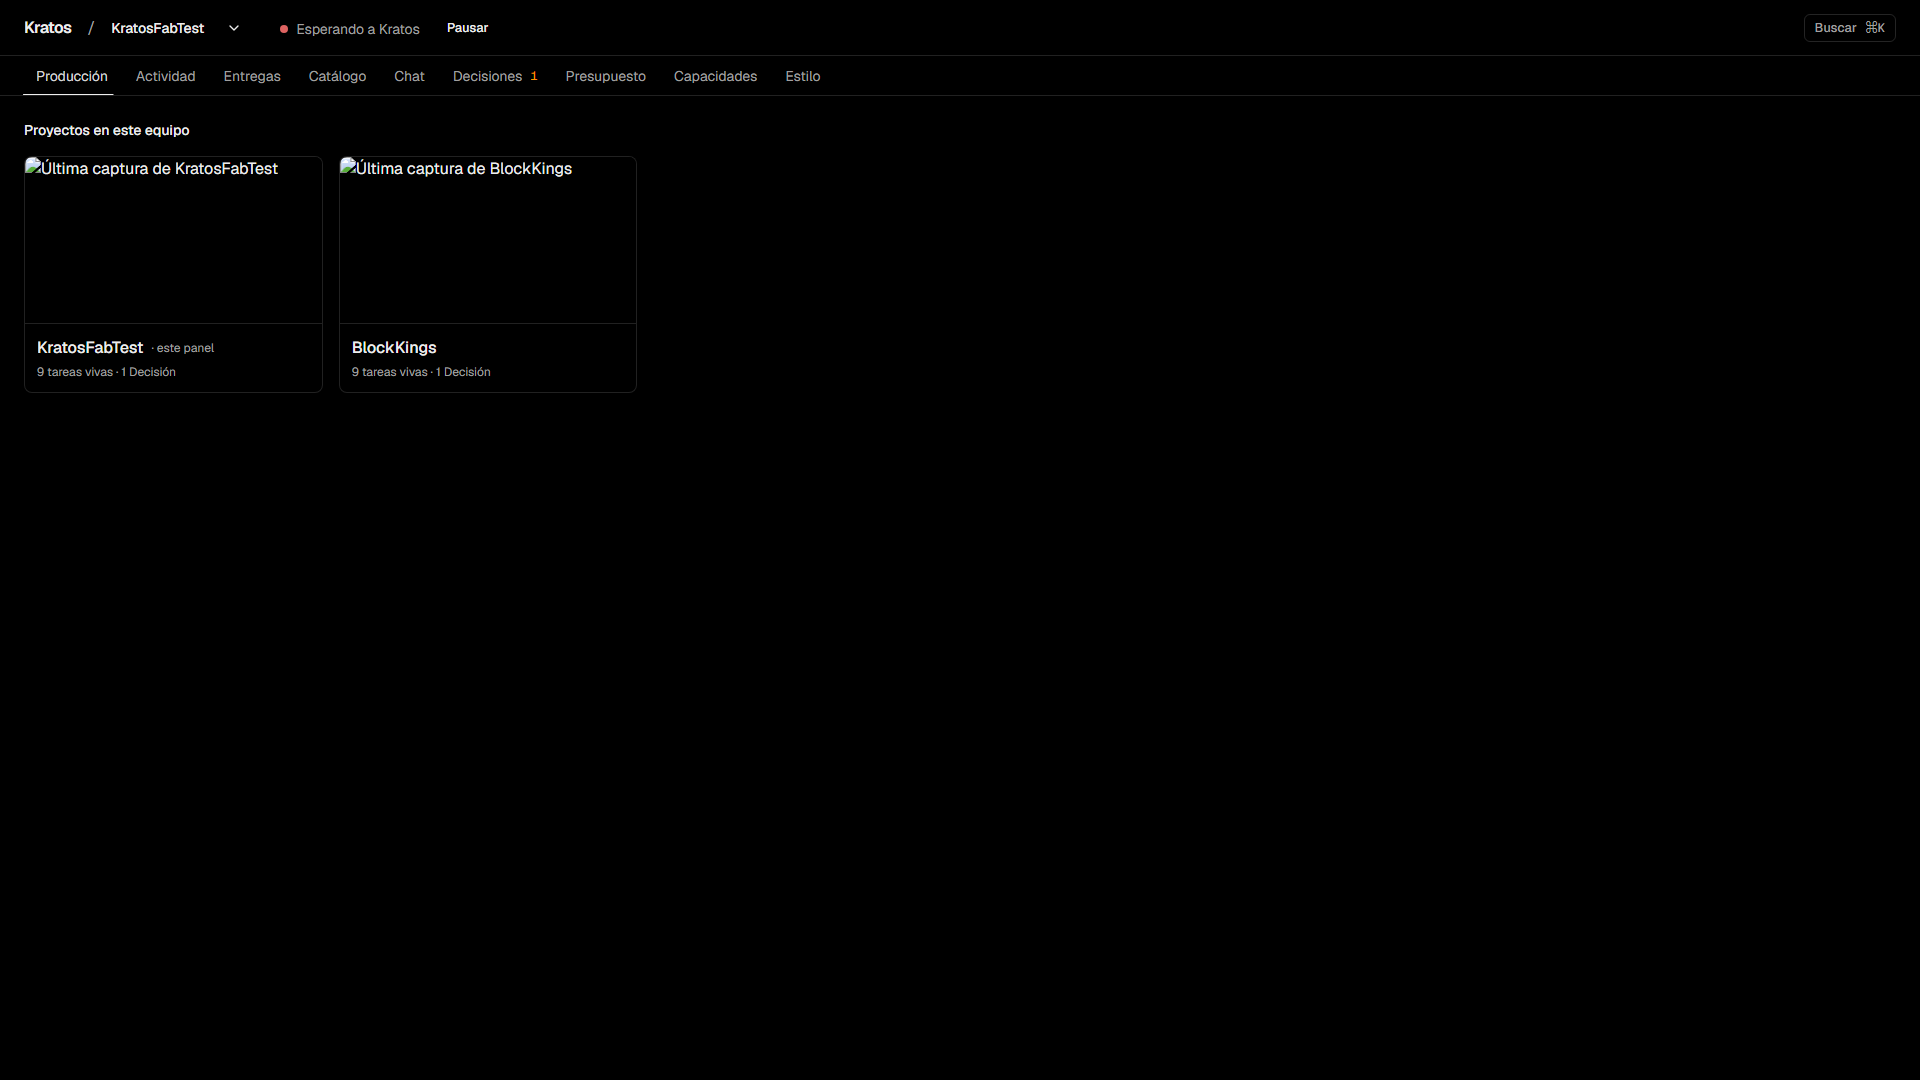
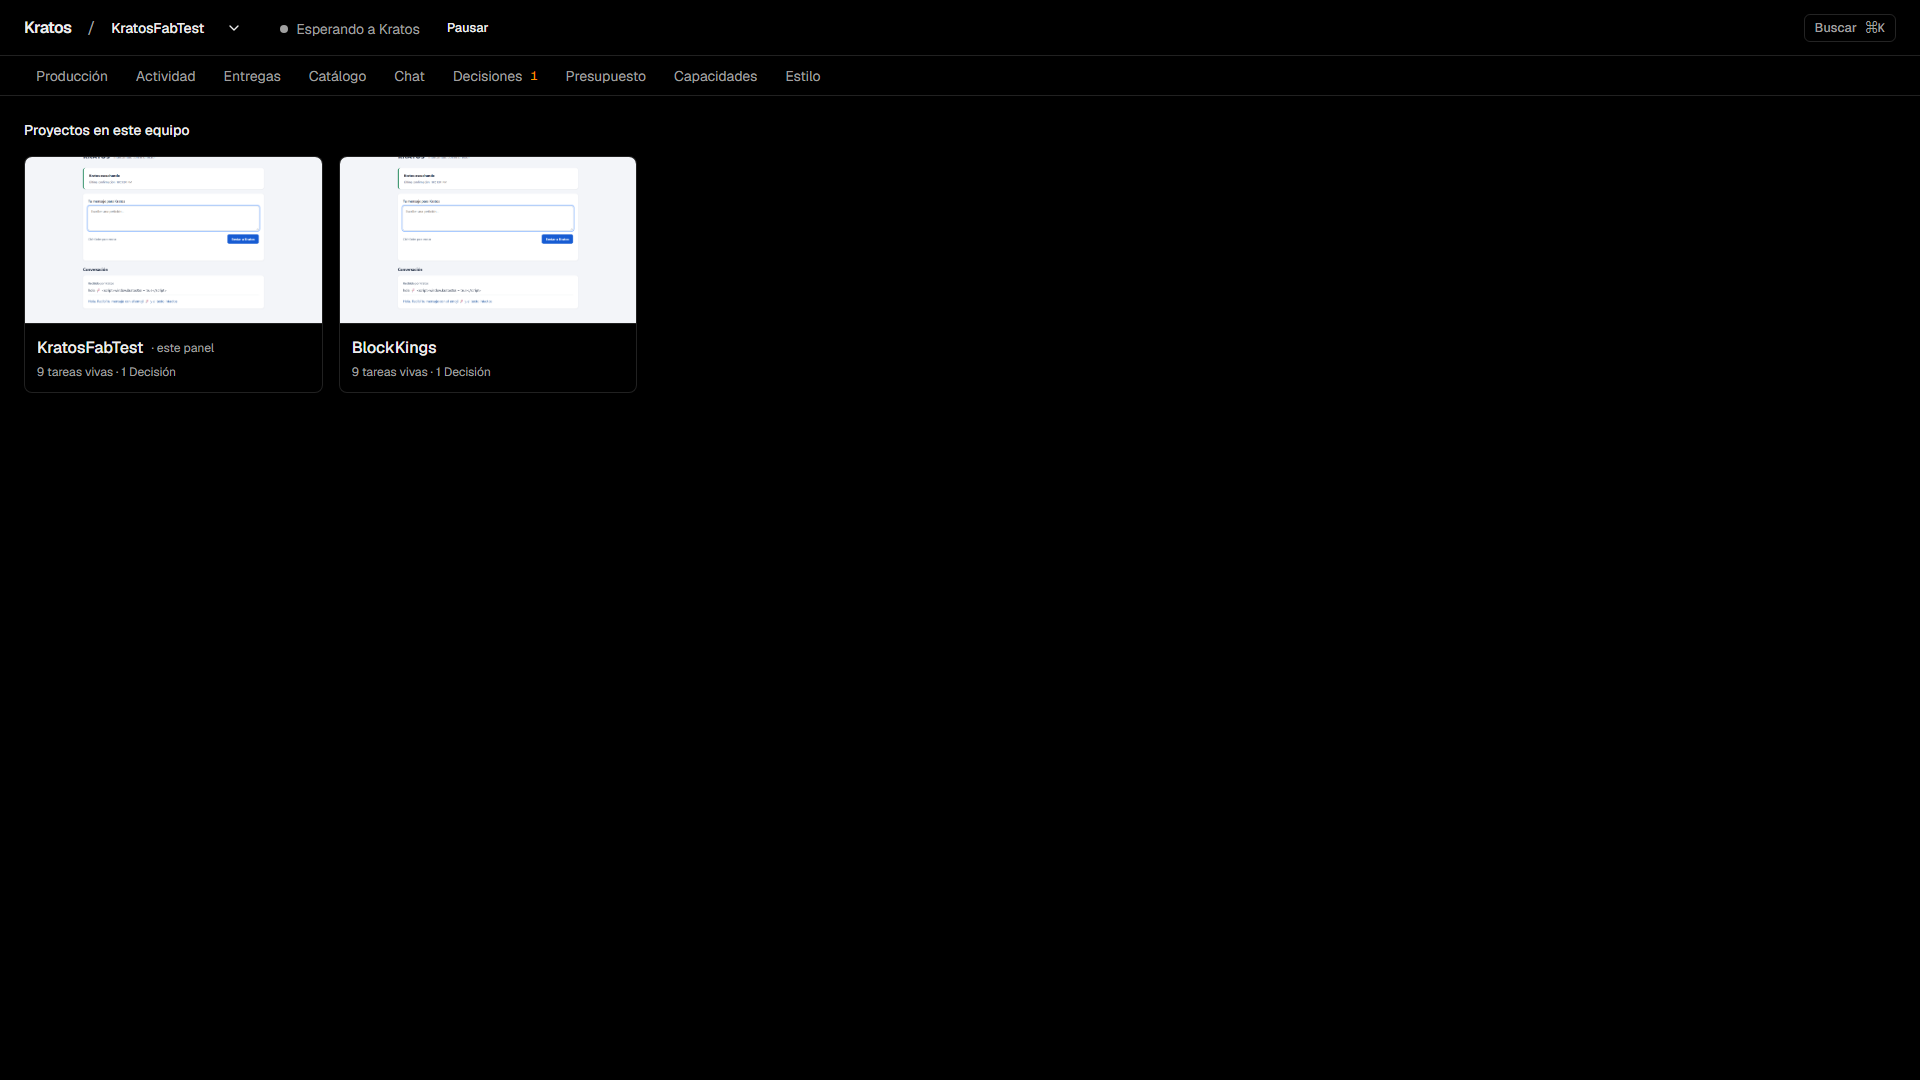
fix: miniaturas reales en la portada de proyectos y subrayado de pestaña en su sitio
- El service worker añade el token a /projects/:puerto/capture: la miniatura daba 401 y salía rota.
- Sin captura o si no carga (onError), marcador neutro con el pictograma del área y el nombre del proyecto.
- El subrayado de la pestaña activa se recoloca con ResizeObserver (el contador de Decisiones y la fuente
  llegan después) y desaparece cuando ninguna pestaña está activa (portada).
- e2e: miniatura cargada de verdad antes de capturar; subrayado bajo Chat a 1024/1366/1920 y ausente en la portada.
- Capturas regeneradas: portada-proyectos, selector-proyectos y las del chat.

Changed region(s): [[0.0, 0.1222, 0.3438, 0.3056], [0.0312, 0.0611, 0.0625, 0.0917]]

diff --git a/panel/src/views/Proyectos.test.tsx b/panel/src/views/Proyectos.test.tsx
@@ -1,5 +1,5 @@
 import { afterEach, beforeEach, describe, expect, it, vi } from 'vitest'
-import { cleanup, render, screen, within } from '@testing-library/react'
+import { cleanup, fireEvent, render, screen, within } from '@testing-library/react'
 import { createMemoryRouter, RouterProvider } from 'react-router'
 
 vi.mock('@/api', () => ({ token: 'tok-secreto', api: vi.fn() }))
@@ -12,6 +12,8 @@ const projects = [
   { name: 'KratosFabTest', dir: 'C:/Unreal/KratosFabTest', port: 8780, alive: true, current: true, liveTasks: 0, openDecisions: 0, hasCapture: false },
   { name: 'Viejo', dir: 'C:/Unreal/Viejo', port: 9999, alive: false, current: false },
 ]
+/** La tarjeta de un proyecto (su nombre puede salir también en el marcador sin captura). */
+const card = (name: string) => screen.getAllByText(name)[0].closest('li')!
 const show = () => render(<RouterProvider router={createMemoryRouter([{ path: '/', element: <Proyectos /> }])} />)
 
 beforeEach(() => { resetStore(); vi.mocked(api).mockReset(); vi.mocked(api).mockResolvedValue(projects) })
@@ -20,16 +22,29 @@ afterEach(cleanup)
 describe('Portada de proyectos (hito 10)', () => {
   it('una tarjeta por juego con su última captura, tareas vivas y Decisiones; el otro se abre en su propio servicio', async () => {
     show()
-    const block = (await screen.findByText('BlockKings')).closest('li')!
+    await screen.findAllByText('BlockKings')
+    const block = card('BlockKings')
     expect(within(block).getByText('3 tareas vivas · 1 Decisión')).toBeInTheDocument()
     expect(within(block).getByRole('img', { name: 'Última captura de BlockKings' }).getAttribute('src')).toContain('/projects/51234/capture')
     expect(within(block).getByRole('link')).toHaveAttribute('href', 'http://127.0.0.1:51234/')
-    const current = screen.getByText('KratosFabTest').closest('li')!
+    const current = card('KratosFabTest')
     expect(within(current).getByText(/este panel/)).toBeInTheDocument()
     expect(within(current).getByRole('link')).toHaveAttribute('href', '/')
-    expect(within(screen.getByText('Viejo').closest('li')!).queryByRole('link')).toBeNull()
+    expect(within(card('Viejo')).queryByRole('link')).toBeNull()
     // el token nunca en pantalla ni en los enlaces a otros proyectos (cada panel lo pide a su servicio)
     for (const link of screen.getAllByRole('link')) expect(link.getAttribute('href')).not.toContain('tok')
     expect(document.body.textContent).not.toContain('tok-secreto')
+  })
+
+  it('sin captura o si la imagen falla, un marcador neutro con el nombre del proyecto; nunca una imagen rota', async () => {
+    show()
+    await screen.findAllByText('KratosFabTest')
+    const current = card('KratosFabTest')
+    expect(within(current).queryByRole('img', { name: /Última captura/ })).toBeNull()
+    expect(within(current).getByRole('img', { name: 'KratosFabTest sin captura' })).toBeInTheDocument()
+    const block = card('BlockKings')
+    fireEvent.error(within(block).getByRole('img', { name: 'Última captura de BlockKings' }))
+    expect(within(block).queryByRole('img', { name: 'Última captura de BlockKings' })).toBeNull()
+    expect(within(block).getByRole('img', { name: 'BlockKings sin captura' })).toBeInTheDocument()
   })
 })

diff --git a/panel/src/views/Proyectos.tsx b/panel/src/views/Proyectos.tsx
@@ -1,9 +1,10 @@
+import { useState } from 'react'
 import { Link } from 'react-router'
 import { useAuthedSrc } from '@/hooks/artifact'
 import { useResource } from '@/hooks/useResource'
 import { BRAND } from '@/lib/brand'
 import { humanError } from '@/lib/errors'
-import { Glyph } from '@/visual/Glyph'
+import { AreaPictogram } from '@/visual/art/AreaPictogram'
 
 /** Lo que devuelve `GET /projects` (hito 10): sin tokens ni rutas de datos. */
 export interface Project { name: string; dir: string; port: number; alive: boolean; current: boolean; liveTasks?: number; openDecisions?: number; hasCapture?: boolean }
@@ -14,11 +15,16 @@ const plural = (n: number, one: string, many: string) => `${n} ${n === 1 ? one :
 
 function Card({ p }: { p: Project }) {
   const capture = useAuthedSrc(p.hasCapture ? `/projects/${p.port || 0}/capture` : null)
+  const [broken, setBroken] = useState(false)
   const body = (
     <>
       <div className="aspect-video overflow-hidden border-b border-subtle bg-card">
-        {capture ? <img src={capture} alt={`Última captura de ${p.name}`} width={480} height={270} className="size-full object-cover" loading="lazy" />
-          : <span className="grid size-full place-items-center text-muted-foreground"><Glyph kind="artifact" value="screenshot" size={48} /></span>}
+        {capture && !broken ? <img src={capture} alt={`Última captura de ${p.name}`} width={480} height={270} className="size-full object-cover" loading="lazy" onError={() => setBroken(true)} />
+          // sin captura o si no carga: el pictograma de escenario del taller art/, nunca una imagen rota
+          : <span role="img" aria-label={`${p.name} sin captura`} className="flex size-full flex-col items-center justify-center gap-2 text-muted-foreground">
+            <span aria-hidden className="contents"><AreaPictogram area="escenarios" size={48} /></span>
+            <span aria-hidden className="text-sm">{p.name}</span>
+          </span>}
       </div>
       <div className="flex flex-col gap-1 p-3">
         <span className="flex items-center gap-2 font-medium">{p.name}{p.current && <span className="text-xs font-normal text-muted-foreground">· este panel</span>}</span>

diff --git a/panel/e2e/chat-en-vivo.spec.ts b/panel/e2e/chat-en-vivo.spec.ts
@@ -39,6 +39,7 @@ test('envío → leído → escribiendo → tarjeta de la tarea creada → respu
   const cards = page.getByRole('list', { name: 'Creado a partir de tu mensaje' })
   await expect(cards.getByRole('link', { name: /^J1\.6 Reacción al golpe/ })).toHaveAttribute('href', `/?tarea=${created.id}`)
   await expect(page.getByRole('status', { name: 'Kratos está escribiendo…' })).toBeVisible()
+  await page.waitForTimeout(300) // el subrayado de la pestaña termina su transición
   if (browserName === 'chromium') await page.screenshot({ path: '../docs/capturas-10/chat-en-vivo-1920.png' })
 
   await call(page, `/messages/${messageId}/reply`, { text: 'Listo. Tareas:\n1) J1.6 Reacción al golpe · **preparada**\n2) J1.7 Dash sin vuelo · preparada\n3) J1.8 Estamina y peso · pendiente' })
@@ -47,7 +48,9 @@ test('envío → leído → escribiendo → tarjeta de la tarea creada → respu
   await expect(page.locator('main')).not.toContainText(created.id)
   await call(page, '/tasks', { title: 'J1.8 Estamina y peso', area: 'animacion', spec: '', acceptance: [], messageId })
   await expect(cards.getByRole('link')).toHaveCount(3)
+  await page.waitForTimeout(300) // el subrayado de la pestaña termina su transición
   if (browserName === 'chromium') await page.screenshot({ path: '../docs/capturas-10/chat-markdown-1920.png' })
+  await page.waitForTimeout(300) // el subrayado de la pestaña termina su transición
   if (browserName === 'chromium') await page.screenshot({ path: '../docs/capturas-10/chat-tarjetas-1920.png' })
 })
 
@@ -63,6 +66,7 @@ for (const [width, height] of [[1024, 768], [1366, 768], [1920, 1080]] as const)
     await expect(page.locator('main pre').first()).toBeVisible()
     const sizes = await page.evaluate(() => ({ scroll: document.documentElement.scrollWidth, client: document.documentElement.clientWidth }))
     expect(sizes.scroll).toBe(sizes.client)
+    await page.waitForTimeout(300)
     if (browserName === 'chromium' && width === 1024) await page.screenshot({ path: '../docs/capturas-10/chat-sin-scroll-1024.png' })
   })
 }

diff --git a/panel/e2e/pestanas.spec.ts b/panel/e2e/pestanas.spec.ts
@@ -1,0 +1,34 @@
+import { expect, test } from '@playwright/test'
+
+const url = (path: string) => process.env.KRATOS_URL!.replace('/#', `${path}#`)
+test.beforeEach(async ({ page }) => { await page.addInitScript(() => localStorage.setItem('kratos.tour.v1', '1')) })
+
+// Hito 10 · corrección de Fable: el subrayado de la pestaña activa estaba bajo «Catálogo» con la vista Chat abierta.
+for (const width of [1024, 1366, 1920]) {
+  test(`a ${width} el subrayado queda bajo la pestaña activa aunque el contador de Decisiones aparezca después`, async ({ page }) => {
+    await page.setViewportSize({ width, height: 800 })
+    await page.goto(url('/chat'))
+    const nav = page.getByRole('navigation', { name: 'Vistas' })
+    await expect(nav.getByText(/^\d+$/).first()).toBeVisible()
+    await page.waitForTimeout(400)
+    const [link, bar] = await Promise.all([
+      nav.getByRole('link', { name: /^Chat/ }).boundingBox(),
+      nav.locator('span[aria-hidden].absolute').boundingBox(),
+    ])
+    expect(Math.abs(bar!.x - link!.x)).toBeLessThanOrEqual(1)
+    expect(Math.abs(bar!.width - link!.width)).toBeLessThanOrEqual(1)
+  })
+}
+
+test('en la portada de proyectos ninguna pestaña está activa y no queda subrayado de la vista anterior', async ({ page }) => {
+  await page.goto(url('/'))
+  await page.getByRole('navigation', { name: 'Vistas' }).waitFor()
+  await expect(page.getByRole('link', { name: 'Producción' })).toHaveAttribute('aria-current', 'page')
+  await page.waitForTimeout(400)
+  // navegación dentro de la aplicación, sin recargar: el subrayado venía de la vista anterior
+  await page.evaluate(() => { history.pushState(null, '', '/proyectos'); dispatchEvent(new PopStateEvent('popstate')) })
+  await page.getByText('Proyectos en este equipo').waitFor()
+  await page.waitForTimeout(400)
+  const bar = await page.getByRole('navigation', { name: 'Vistas' }).locator('span[aria-hidden].absolute').boundingBox()
+  expect(bar?.width ?? 0).toBeLessThanOrEqual(1)
+})

diff --git a/panel/e2e/proyectos.spec.ts b/panel/e2e/proyectos.spec.ts
@@ -22,6 +22,10 @@ test('portada al abrir con varios proyectos; el otro juego se abre sin token en 
   const card = page.getByRole('listitem').filter({ hasText: 'BlockKings' })
   await expect(card).toContainText(/tareas? vivas?/)
   await expect(page.locator('main')).not.toContainText(token)
+  // la miniatura es la última captura real del otro juego: cargada de verdad, no una imagen rota
+  const shot = card.getByRole('img', { name: 'Última captura de BlockKings' })
+  await expect.poll(() => shot.evaluate((img: HTMLImageElement) => img.complete ? img.naturalWidth : 0)).toBeGreaterThan(0)
+  await page.waitForTimeout(300) // el subrayado de la pestaña termina su transición antes de la captura
   if (browserName === 'chromium') await page.screenshot({ path: '../docs/capturas-10/portada-proyectos-1920.png' })
   await card.getByRole('link').click()
   await expect(page).toHaveURL(new RegExp(`^${game.origin}/`))
@@ -29,5 +33,6 @@ test('portada al abrir con varios proyectos; el otro juego se abre sin token en 
   await expect(page.getByText('Sin sesión')).toHaveCount(0)
   await page.getByRole('button', { name: 'Cambiar de proyecto' }).click()
   await expect(page.getByRole('menuitem', { name: 'KratosFabTest' })).toHaveAttribute('href', `${fab.origin}/`)
+  await page.waitForTimeout(300)
   if (browserName === 'chromium') await page.screenshot({ path: '../docs/capturas-10/selector-proyectos-1920.png' })
 })

diff --git a/panel/src/shell/Tabs.tsx b/panel/src/shell/Tabs.tsx
@@ -22,10 +22,22 @@ export function Tabs() {
   const pending = useStore((s) => s.tasks.filter((t) => t.decisionId).length)
 
   // indicador deslizante bajo la pestaña activa (transición de 180 ms en CSS)
+  // se recoloca también cuando una pestaña cambia de ancho (el contador de Decisiones llega después, carga la fuente,
+  // cambia la ventana): antes se quedaba bajo la pestaña anterior (hito 10, corrección de Fable)
   useLayoutEffect(() => {
-    const active = nav.current?.querySelector<HTMLElement>('[aria-current="page"]')
-    if (active) setBar({ x: active.offsetLeft, w: active.offsetWidth })
-  }, [pathname])
+    const place = () => {
+      const active = nav.current?.querySelector<HTMLElement>('[aria-current="page"]')
+      // sin pestaña activa (la portada de proyectos) no hay subrayado
+      const x = active?.offsetLeft ?? 0, w = active?.offsetWidth ?? 0
+      setBar((bar) => bar.x === x && bar.w === w ? bar : { x, w })
+    }
+    place()
+    if (typeof ResizeObserver === 'undefined' || !nav.current) return
+    const observer = new ResizeObserver(place)
+    observer.observe(nav.current)
+    for (const link of nav.current.querySelectorAll('a')) observer.observe(link)
+    return () => observer.disconnect()
+  }, [pathname, pending])
 
   return (
     <nav ref={nav} aria-label="Vistas" className="relative flex h-(--k-tabs) items-stretch gap-1 border-b border-subtle px-6">

diff --git a/panel/public/sw.js b/panel/public/sw.js
@@ -1,9 +1,9 @@
-// Convierte ?token= de las peticiones a /artifacts/*, /catalog/*/thumbnail y /tasks/*/archive/* en la cabecera Authorization (ver src/hooks/artifact.ts).
+// Convierte ?token= de las peticiones a /artifacts/*, /catalog/*/thumbnail, /tasks/*/archive/* y /projects/*/capture en la cabecera Authorization (ver src/hooks/artifact.ts).
 self.addEventListener('install', () => self.skipWaiting())
 self.addEventListener('activate', (event) => event.waitUntil(self.clients.claim()))
 self.addEventListener('fetch', (event) => {
   const url = new URL(event.request.url)
-  if (url.origin !== self.location.origin || !(url.pathname.startsWith('/artifacts/') || /^\/catalog\/[^/]+\/thumbnail$/.test(url.pathname) || /^\/tasks\/[^/]+\/archive\/./.test(url.pathname))) return
+  if (url.origin !== self.location.origin || !(url.pathname.startsWith('/artifacts/') || /^\/catalog\/[^/]+\/thumbnail$/.test(url.pathname) || /^\/tasks\/[^/]+\/archive\/./.test(url.pathname) || /^\/projects\/\d+\/capture$/.test(url.pathname))) return
   const token = url.searchParams.get('token')
   if (!token) return
   url.searchParams.delete('token')

diff --git a/docs/estado-entregas.md b/docs/estado-entregas.md
@@ -28,6 +28,9 @@ probado en KratosFabTest; portada `/proyectos` y selector en la cabecera, regist
 del propio origen; chat en vivo (estados con hora, «escribiendo», tarjetas de lo creado, Markdown seguro, sin scroll
 horizontal); revisión con datos reales de Block Kings (Entregas y Presupuesto ya cargan, 170 → 85 lecturas de runs,
 `/messages` 0,64 → 0,003 s, miniatura en la fila de Producción).
+Correcciones de Fable: la tarjeta de cada proyecto enseña su última captura real (el service worker no cubría
+`/projects/:puerto/capture`) o un marcador con el nombre si no hay o no carga; el subrayado de la pestaña activa se
+recoloca cuando cambian los anchos y desaparece en la portada.
 
 ```
 node panel/scripts/capturas-10.ts <etiqueta> [--datos <copia de .kratos>] [--proyecto <nombre>]
